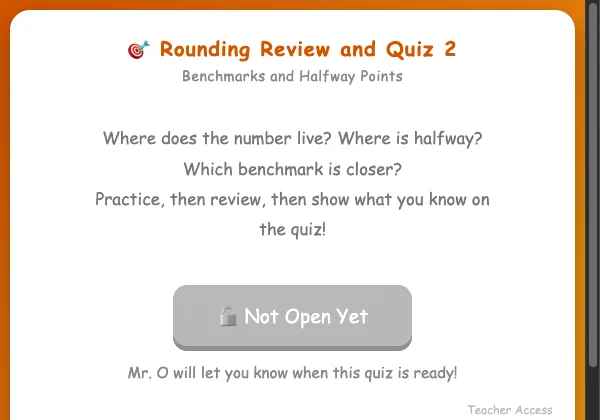
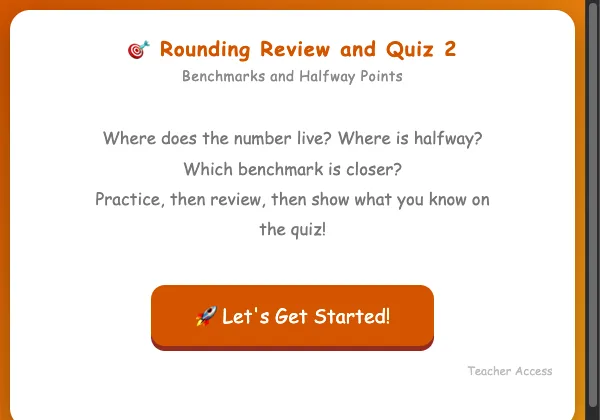
feat: open the Rounding Review and Quiz 2 card to students

diff --git a/index.html b/index.html
@@ -365,15 +365,13 @@
             </div>
         </a>
 
-        <!-- LOCKED until Marcos opens it: grayed out; site allows Teacher Access only. To open: remove card-locked + the lock badge, and set PRACTICE_OPEN / REVIEW_OPEN / QUIZ_OPEN = true in math-rounding-quiz-2/script.js -->
-        <a href="https://molivera1977.github.io/math-rounding-quiz-2/" class="card card-locked" target="_blank" title="Not open yet">
+        <a href="https://molivera1977.github.io/math-rounding-quiz-2/" class="card" target="_blank">
             <div class="card-image">
-                <img loading="lazy" src="images/math-rounding-quiz-2.webp" alt="Rounding Review and Quiz 2">
+                <img loading="lazy" src="images/math-rounding-quiz-2.webp?v=open" alt="Rounding Review and Quiz 2">
             </div>
             <div class="card-content">
                 <div class="card-title">Rounding Review and Quiz 2</div>
                 <span class="card-tag">Math</span>
-                <span class="lock-badge">🔒 Coming Soon</span>
             </div>
         </a>
 
